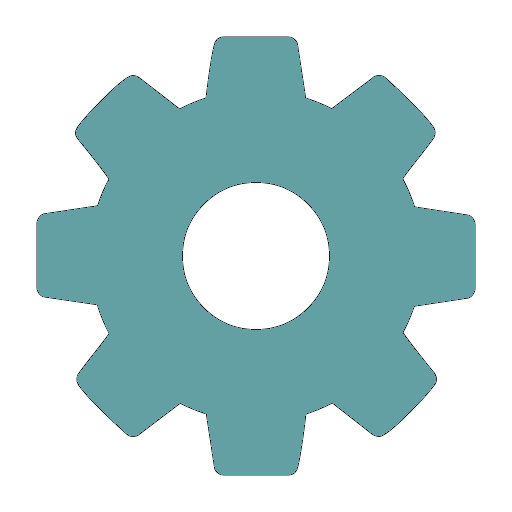
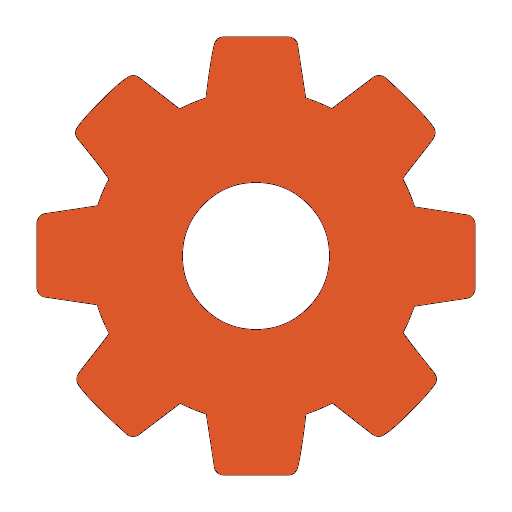
chore: Updated Alison's color scheme.

diff --git a/range_monitor/plugins/guacamole/static/css/styles.css b/range_monitor/plugins/guacamole/static/css/styles.css
@@ -1,8 +1,3 @@
-.content {
-  background-color: transparent;
-  display: block;
-}
-
 .columns {
   display: flex;
   flex-wrap: wrap;
@@ -12,29 +7,29 @@
 .column {
   width: 30%;
   padding: 10px;
-  border: 2px solid #63A0A3;
+  border: 2px solid #dc582a;
   box-shadow: 5px 5px 10px rgba(0, 0, 0, 0.5);
   text-align: center;
-  color: #63A0A3;
+  color: #dc582a;
 }
 
 .options {
   width: 20%;
   padding: 20px;
-  border: 2px solid #63A0A3;
+  border: 2px solid #dc582a;
   box-shadow: 5px 5px 10px rgba(0, 0, 0, 0.5);
   text-align: left;
-  color: #63A0A3;
+  background: #333;
 }
 
 .map {
   width: 75%;
   height: 75vh;
   padding: 10px;
-  border: 2px solid #63A0A3;
+  border: 2px solid #dc582a;
   box-shadow: 5px 5px 10px rgba(0, 0, 0, 0.5);
   text-align: center;
-  color: #63A0A3;
+  background: #333;
   cursor: crosshair;
 }
 
@@ -61,6 +56,6 @@ svg {
 }
 
 .selected {
-  stroke: white;
+  stroke: #dc582a;
   stroke-width: 1px;
 }

diff --git a/range_monitor/plugins/guacamole/templates/partials/guac_menu.html b/range_monitor/plugins/guacamole/templates/partials/guac_menu.html
@@ -11,10 +11,10 @@
             <span></span>
         </label>
         <ul class="menu">
-            <button class="button" onclick="window.location.href='/'">Home</button>
-            <button class="button" onclick="window.location.href='/guacamole'">Topology</button>
-            <button class="button" onclick="window.location.href='/guacamole/active_connections'">Active Connections</button>
-            <button class="button" onclick="window.location.href='/guacamole/active_users'">Active Users</button>
+            <a class="button" href="/">Home</a>
+            <a class="button" href="/guacamole">Topology</a>
+            <a class="button" href="/guacamole/active_connections">Active Connections</a>
+            <a class="button" href="/guacamole/active_users">Active Users</a>
         </ul>
     </div>
 </body>

diff --git a/range_monitor/static/css/styles.css b/range_monitor/static/css/styles.css
@@ -1,5 +1,5 @@
 html {
-    background: #ffffff;
+    background: #CCC;
     font-family: Arial, sans-serif;
 }
 
@@ -24,12 +24,11 @@ nav a {
     display: block;
     padding: 0.5rem;
     right: 0;
-    color: #dc582a;
+    color: #C1D72E;
 }
 
 hr {
     border: none;
-    border-top: 1px solid #ffff;
 }
 
 nav {
@@ -84,9 +83,9 @@ nav ul li span {
 
 .content {
     padding: 1rem 1rem 1rem;
-    background-color: #111;
+    background-color: #333;
     color: black;
-    display: flex;
+    display: block;
     flex-direction: column;
     align-items: center;
     justify-content: center;
@@ -110,6 +109,8 @@ nav ul li span {
     padding: 0.5rem;
     right: 0;
     color: #dc582a;
+    max-width: 300px;
+    text-align: center;
 }
 
 

diff --git a/range_monitor/templates/main/index.html b/range_monitor/templates/main/index.html
@@ -8,7 +8,7 @@
 <article class="plugin">
   <header>
     <div>
-      <button class="button" onclick="window.location.href='/{{ plugin }}'">{{ plugin }}</button>
+      <a class="button" href="/{{ plugin }}">{{ plugin }}</a>
     </div>
   </header>
 </article>

diff --git a/range_monitor/plugins/guacamole/static/css/menu.css b/range_monitor/plugins/guacamole/static/css/menu.css
@@ -23,7 +23,7 @@
   position: absolute;
   height: 4px;
   width: 100%;
-  background: #63A0A3;
+  background: #dc582a;
   border-radius: 3px;
   opacity: 1;
   left: 0;
